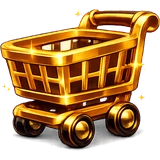
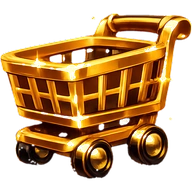
v2.9.8: balk-pictogrammen op hoge resolutie, zonder schaduw en witte rand
Het nieuwe vel is 4096 breed en de uitsnedes gaan van 160 naar 192, dus op een
scherm van drie keer is er nu meer dan genoeg te downschalen.

De slagschaduw en de lichte omtrek zijn eraf. Die zijn te scheiden van de rest
door WAT ze zijn: het goud is verzadigd en dekkend, de schaduw is grijs EN
doorzichtig, en de sterretjes zijn ook bleek maar juist massief. Alleen op
grijstint filteren zou dus de sterretjes meenemen; op grijstint plus dekking niet.

De witte rand zit net BUITEN het goud, dus het masker gaat vijf pixels naar
binnen. Alleen op het goud: de sterretjes zijn dun en zouden anders verdwijnen,
die krijgen hun eigen zachte masker.

NAV_ART naar 3 en de service worker naar v43, want de bestanden zijn op dezelfde
naam overschreven.

diff --git a/frontend/src/components/BottomNav.tsx b/frontend/src/components/BottomNav.tsx
@@ -30,7 +30,7 @@ export type NavKey = "shop" | "leaderboard" | "home" | "friends" | "profile";
 // naam vervangt. De service worker bewaart plaatjes cache-first en ruimt pas op
 // bij zijn volgende activatie, dus alleen zijn versie ophogen laat er nog een
 // laadbeurt de oude bytes doorheen. Een andere URL kan dat niet gebeuren.
-const NAV_ART = 2;
+const NAV_ART = 3;
 const SLOTS = [11.6, 31.0, 50, 69.1, 88.4];
 // De scheiding staat MIDDEN tussen de twee pictogrammen van een vak, dus op het
 // gemiddelde van hun posities. Twee vakken, twee groeven; over het gouden

diff --git a/frontend/public/sw.js b/frontend/public/sw.js
@@ -10,7 +10,7 @@
 //    briefly-stale shell can still boot from cache instead of going black.
 //  - Every activation purges ALL old caches (drops any poisoned shell).
 // Never touches the WebSocket or the API.
-const CACHE = "penneer-v42"; // v42: nieuwe balk-pictogrammen
+const CACHE = "penneer-v43"; // v43: balk-pictogrammen op hoge resolutie
 
 self.addEventListener("install", () => {
   self.skipWaiting();

diff --git a/frontend/src/version.ts b/frontend/src/version.ts
@@ -1,2 +1,2 @@
 // Bump per user-facing release. Shown in Settings > About.
-export const APP_VERSION = "2.9.7";
+export const APP_VERSION = "2.9.8";
